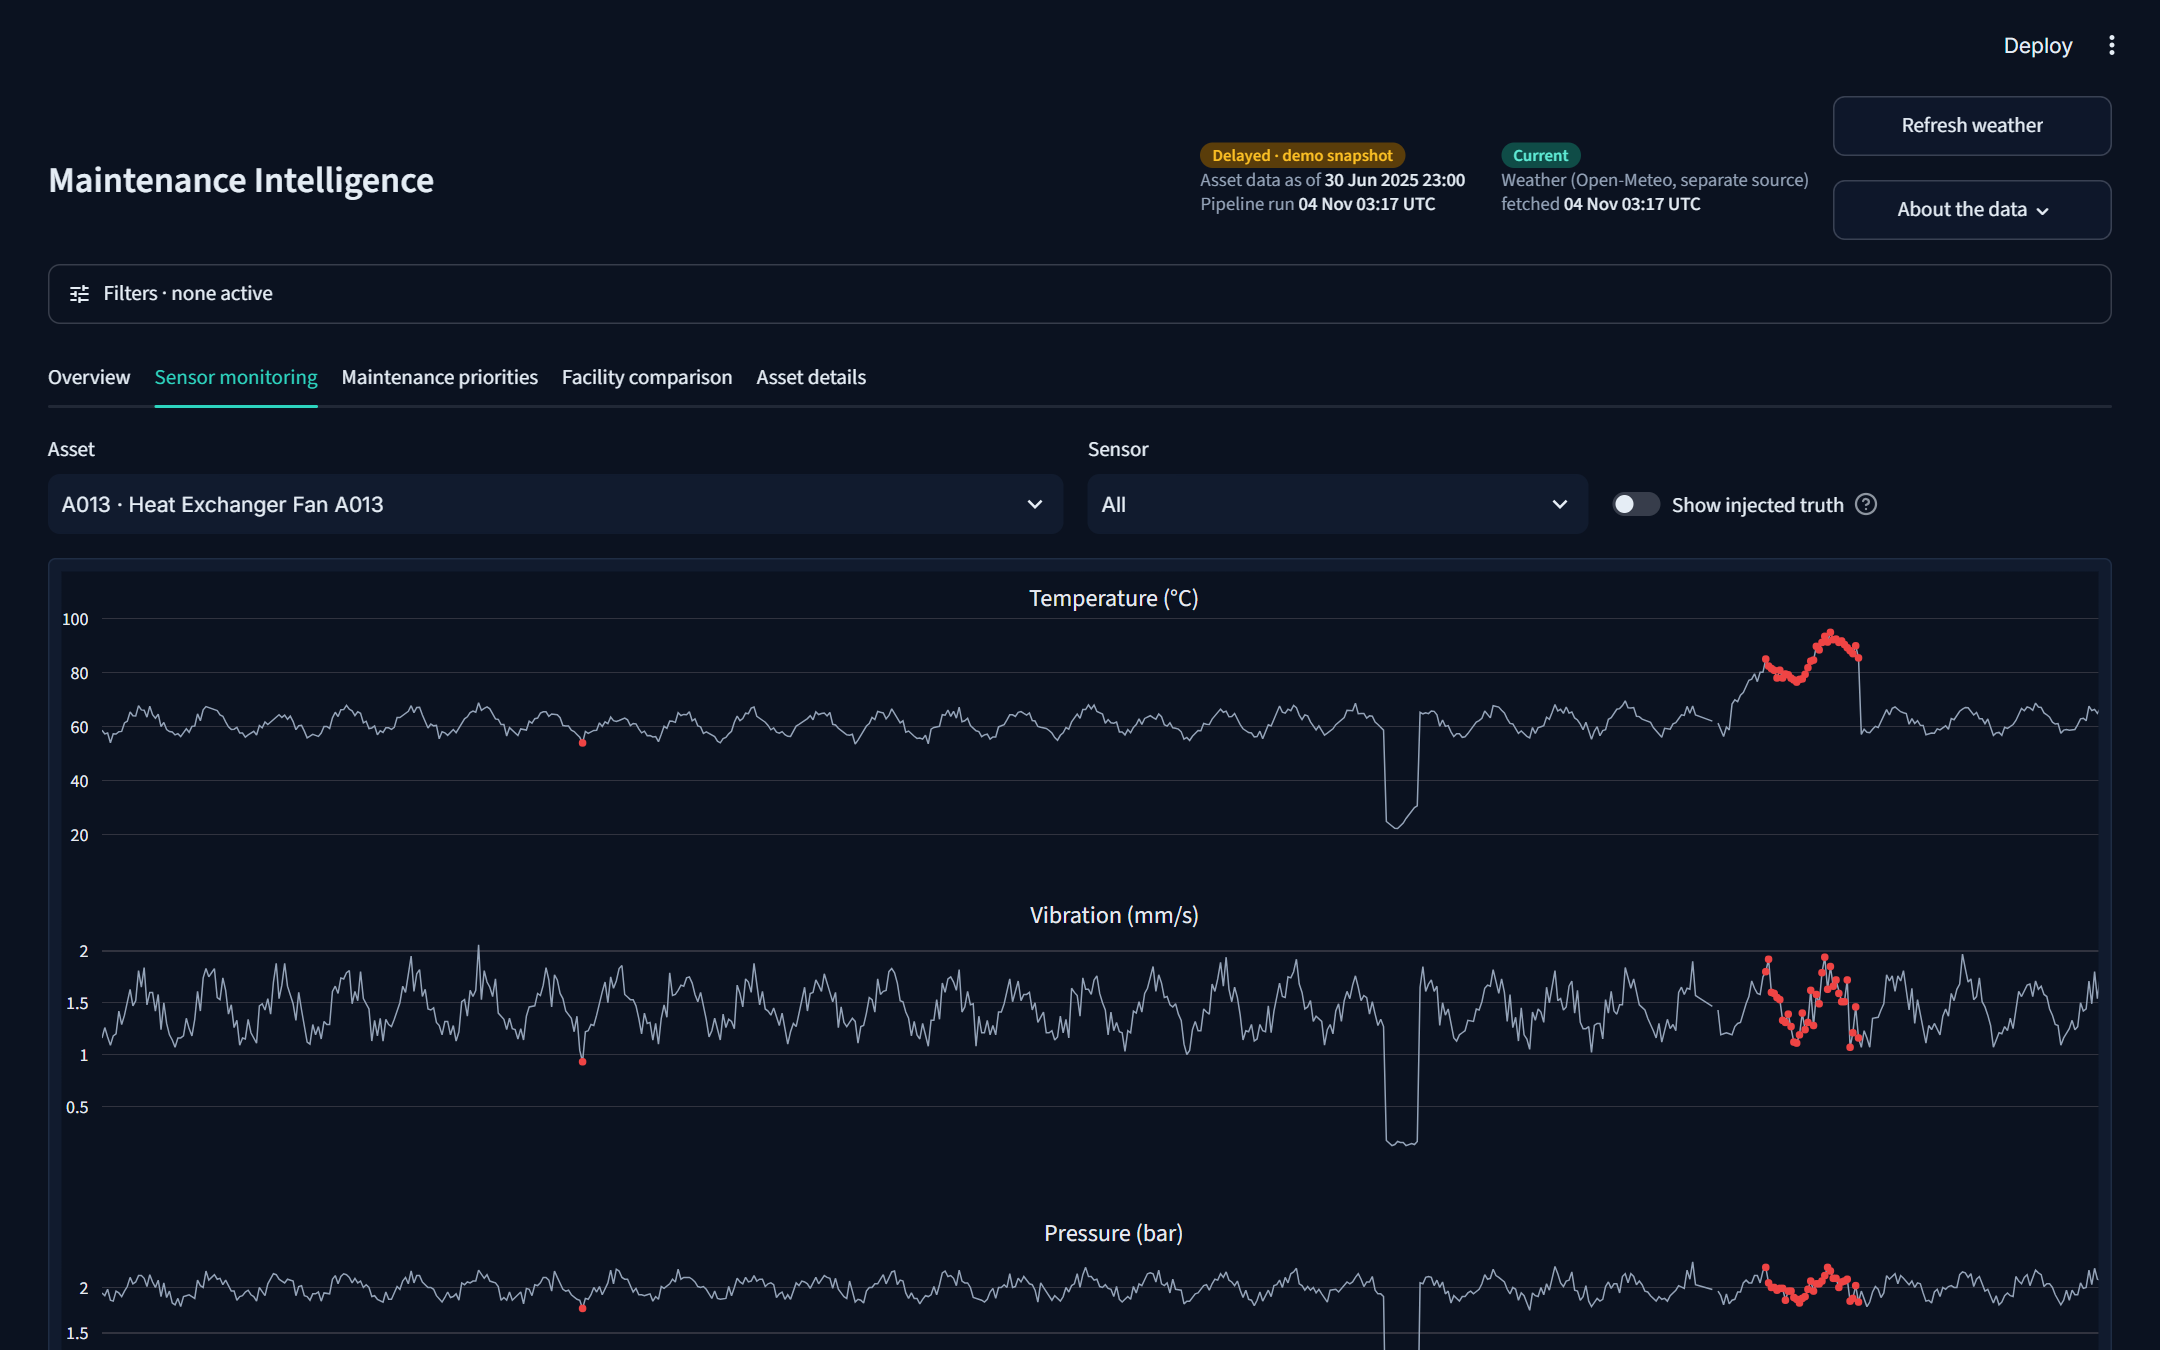
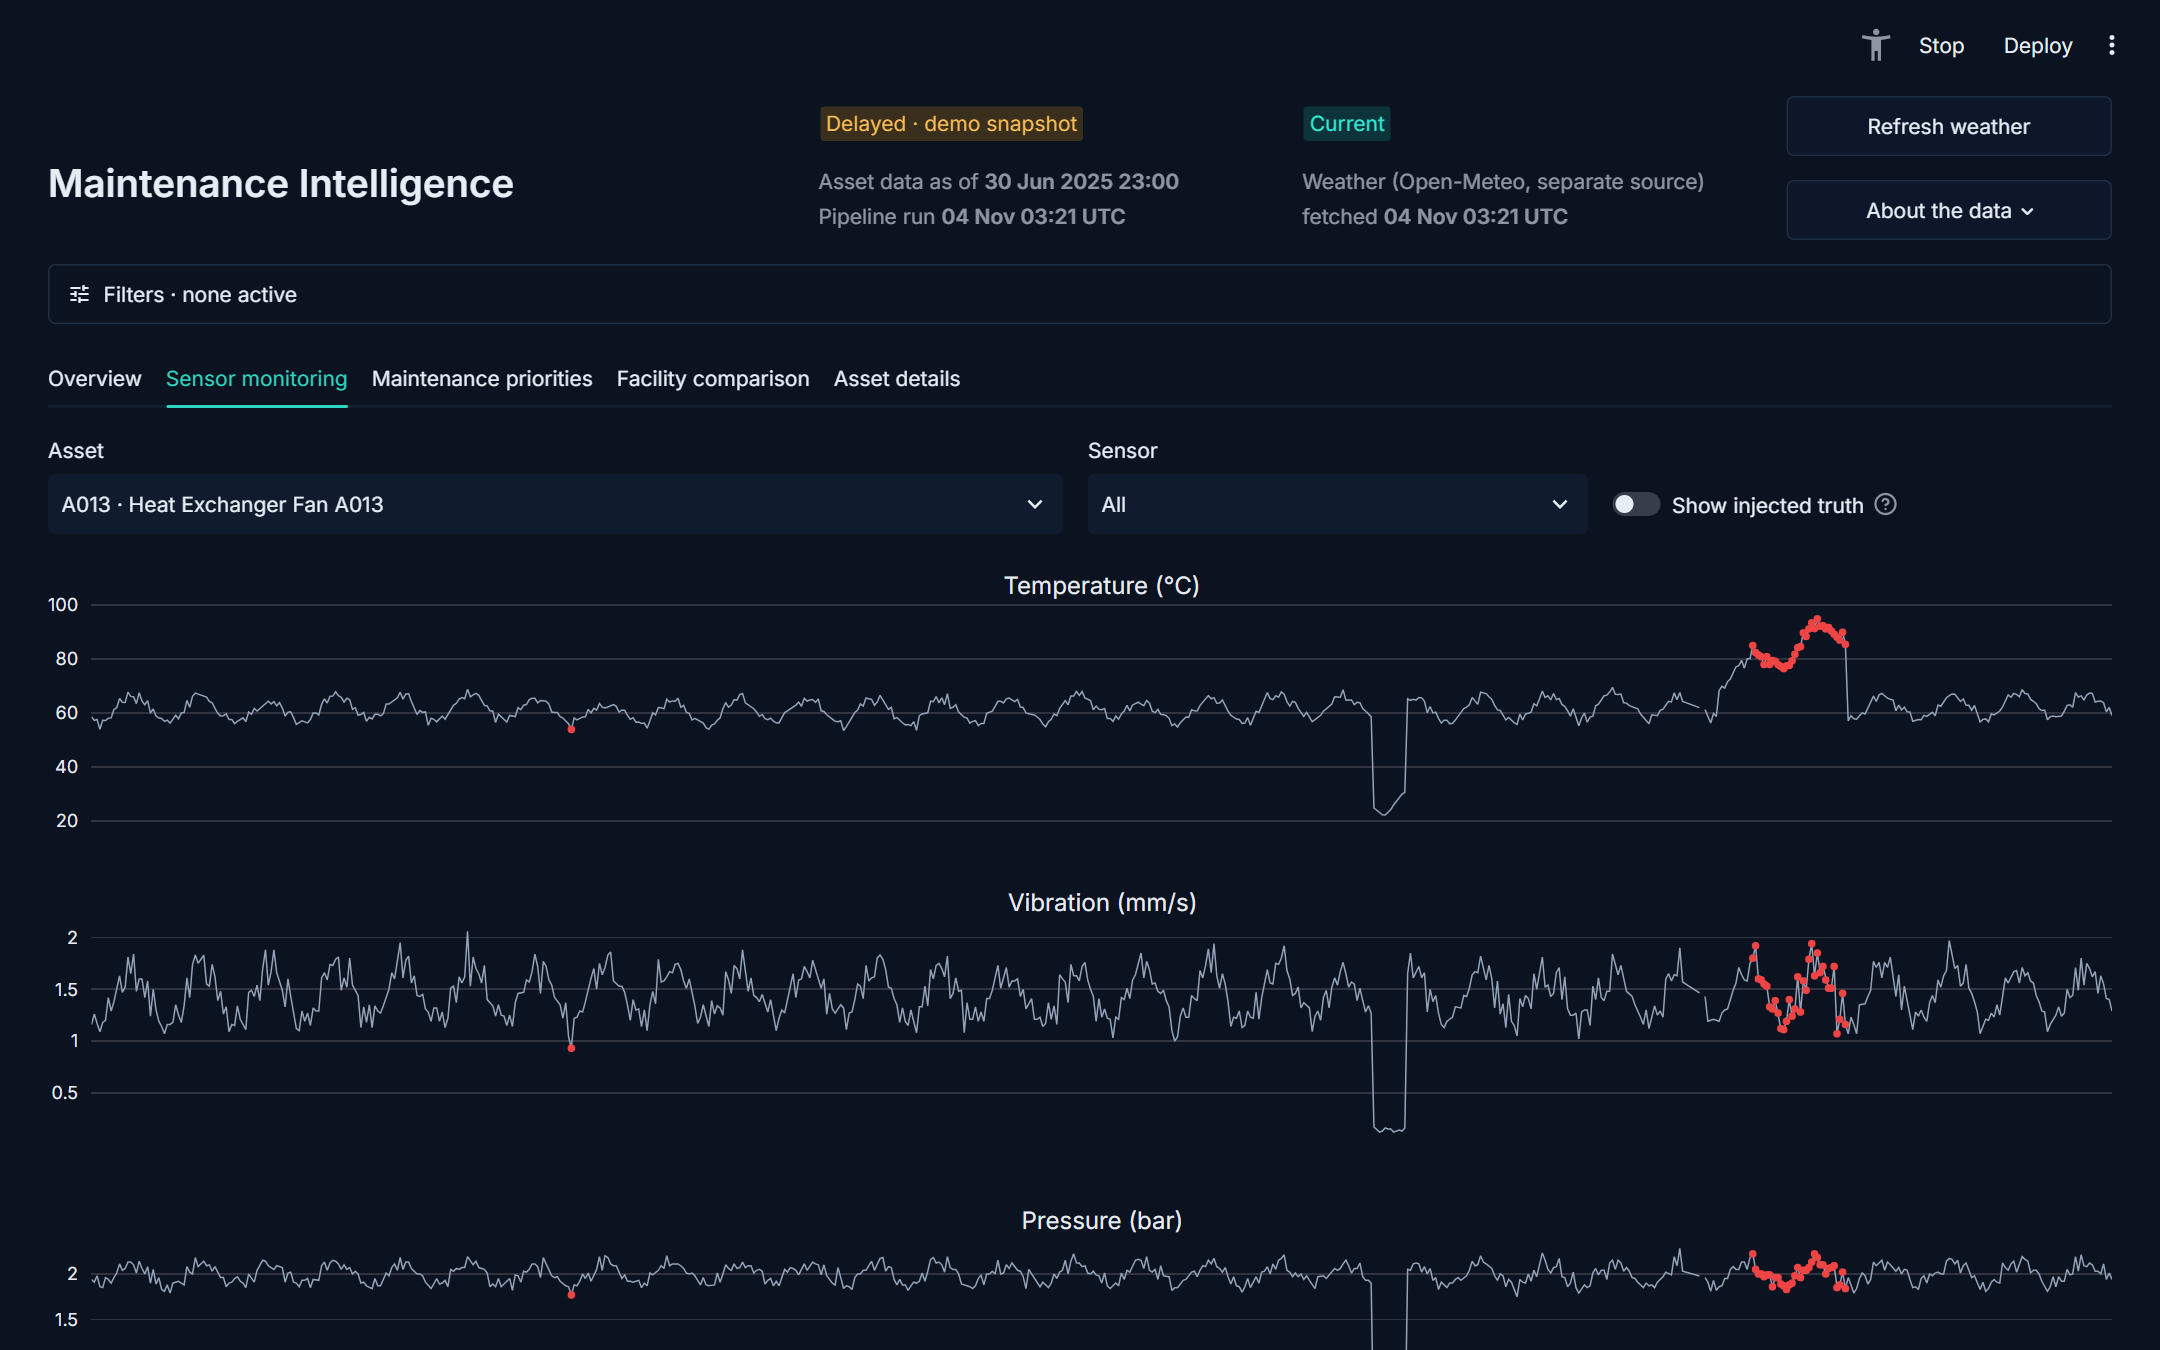
Move styling to theme config and native elements

diff --git a/app.py b/app.py
@@ -1,6 +1,4 @@
 """Maintenance Intelligence dashboard. Run: streamlit run app.py"""
-import itertools
-
 import pandas as pd
 import plotly.express as px
 import plotly.io as pio
@@ -11,29 +9,8 @@ from mi import pipeline as P
 from mi.data_gen import SENSORS
 from mi.weather import get_current
 
-_n = itertools.count()  # unique keys for styled card containers
 st.set_page_config("Maintenance Intelligence", ":material/monitoring:", layout="wide", initial_sidebar_state="collapsed")
-st.markdown("""<style>
-@import url('https://fonts.googleapis.com/css2?family=Inter:wght@400;500;600&display=swap');
-html, body, .stApp, button, input { font-family: 'Inter', sans-serif; }
-.block-container { padding: 3rem 2rem 2rem; max-width: 1600px; }
-h1 { font-size: 1.5rem !important; font-weight: 600 !important; padding: 0 !important; }
-h3 { font-size: 1rem !important; font-weight: 600 !important; padding: 0 0 .4rem !important; }
-[class*="st-key-card"] { background: #111b2e; border: 1px solid #1f2d44; border-radius: 5px; padding: .8rem 1rem; }
-[data-testid="stMetricLabel"] p { font-size: .75rem; color: #94a3b8; text-transform: uppercase; letter-spacing: .05em; }
-[data-testid="stMetricValue"] { font-variant-numeric: tabular-nums; font-weight: 600; font-size: 1.9rem; }
-[data-testid="stMetricValue"] > div { white-space: normal; overflow: visible; text-overflow: clip; line-height: 1.2; }
-button[data-baseweb="tab"][aria-selected="true"] { font-weight: 600; color: #2dd4bf; }
-[data-baseweb="tab-highlight"] { background: #2dd4bf; height: 2px; }
-[data-testid="stDataFrame"] { border: 1px solid #1f2d44; border-radius: 5px; overflow: hidden; }
-[data-testid="stPlotlyChart"] { background: #111b2e; border: 1px solid #1f2d44; border-radius: 5px; padding: .5rem; }
-[class*="st-key-card"] [data-testid="stPlotlyChart"] { background: transparent; border: 0; padding: 0; }
-.fresh { display: flex; gap: 1.5rem; justify-content: flex-end; font-size: .78rem; color: #94a3b8; line-height: 1.35; }
-.fresh b { color: #e5edf5; font-weight: 500; }
-.pill { white-space: nowrap; padding: 1px 8px; border-radius: 99px; font-size: .7rem; font-weight: 600; margin-right: .4rem; }
-.ok { background: #0f4c47; color: #5eead4; } .warn { background: #5a3d0a; color: #fbbf24; } .bad { background: #5a1414; color: #f87171; }
-@media (max-width: 640px) { .fresh { flex-direction: column; gap: .5rem; justify-content: flex-start; } .block-container { padding: 2.6rem 1rem 2rem; } }
-</style>""", unsafe_allow_html=True)
+st.markdown("<style>.block-container { padding: 3rem 2rem 2rem; max-width: 1600px; }</style>", unsafe_allow_html=True)  # no native setting for page padding
 pio.templates["mi"] = pio.templates["plotly_dark"]
 pio.templates["mi"].layout.update(paper_bgcolor="rgba(0,0,0,0)", plot_bgcolor="rgba(0,0,0,0)", font_family="Inter",
                                   margin=dict(l=10, r=30, t=40, b=10), title_font_size=14, hovermode="x unified")
@@ -117,17 +94,16 @@ def reset():
 # ---- Header: title left, data freshness right
 live_df, fetched = live(fac)
 now = pd.Timestamp.now("UTC")
-data_state = ("ok", "Current") if now - LAST.tz_localize("UTC") < pd.Timedelta(hours=2) else ("warn", "Delayed · demo snapshot")
-wx_state = ("ok", "Current") if not live_df.empty else ("bad", "Sync failed")
-h = st.columns([2.2, 3.2, 0.9], vertical_alignment="center")
+data_ok = now - LAST.tz_localize("UTC") < pd.Timedelta(hours=2)
+h = st.columns([2, 1.25, 1.25, 0.9], vertical_alignment="center")
 h[0].title("Maintenance Intelligence")
-h[1].markdown(
-    f"""<div class="fresh"><div><span class="pill {data_state[0]}">{data_state[1]}</span><br>Asset data as of <b>{LAST:%d %b %Y %H:%M}</b><br>
-    Pipeline run <b>{synced:%d %b %H:%M UTC}</b></div>
-    <div><span class="pill {wx_state[0]}">{wx_state[1]}</span><br>Weather (Open-Meteo, separate source)<br>
-    {'fetched <b>' + fetched.strftime('%d %b %H:%M UTC') + '</b>' if not live_df.empty else 'live feed unavailable'}</div></div>""",
-    unsafe_allow_html=True)
+with h[1]:
+    st.badge("Current" if data_ok else "Delayed · demo snapshot", color="green" if data_ok else "orange")
+    st.caption(f"Asset data as of **{LAST:%d %b %Y %H:%M}**  \nPipeline run **{synced:%d %b %H:%M UTC}**")
 with h[2]:
+    st.badge("Current" if not live_df.empty else "Sync failed", color="green" if not live_df.empty else "red")
+    st.caption("Weather (Open-Meteo, separate source)  \n" + (f"fetched **{fetched:%d %b %H:%M UTC}**" if not live_df.empty else "live feed unavailable"))
+with h[3]:
     if st.button("Refresh weather", width="stretch", help="Re-fetches live weather. Asset data is a fixed synthetic snapshot."):
         live.clear()
         st.rerun()
@@ -168,11 +144,11 @@ with tabs[0]:
             ("Critical assets", n_crit, f"{n_crit / len(T):.0%} of assets · risk > 40"),
             ("Average risk", f"{T.risk.mean():.1f}", "Scale 0-100 · as of risk date"),
             ("Model alerts", f"{n_alerts:,}", f"Alert-hours, last {period} days")]):
-        with col.container(border=True, key=f"card_{lbl[:5]}"):
+        with col.container(border=True):
             st.metric(lbl, val)
             st.caption(sub)
 
-    with st.container(border=True, key="card_prio"):
+    with st.container(border=True):
         st.subheader("Maintenance priorities")
         top = T.head(10).reset_index(drop=True)
         ss["prio_ids"] = list(top.asset_id)
@@ -184,7 +160,7 @@ with tabs[0]:
         st.caption("Ranked by risk score. Select a row to open that asset in Asset details.")
 
     c1, c2, c3 = st.columns([1.3, 1, 1.1])
-    with c1.container(border=True, key="card_map"):
+    with c1.container(border=True):
         st.subheader("Facility risk map")
         g = T.groupby(["facility", "facility_id"]).agg(avg_risk=("risk", "mean"), critical=("level", lambda x: (x == "High").sum()),
                                                         assets=("asset_id", "count")).reset_index().merge(fac, on="facility_id")
@@ -197,19 +173,19 @@ with tabs[0]:
                                        size_max=26, map_style="carto-darkmatter",
                                        labels={"avg_risk": "Avg risk", "critical": "Critical assets", "assets": "Assets", "now": "Weather now"})
                         .update_layout(height=H, margin=dict(l=0, r=0, t=0, b=0)), width="stretch")
-    with c2.container(border=True, key="card_fac"):
+    with c2.container(border=True):
         st.subheader("Average risk by facility")
         show(px.bar(g.sort_values("avg_risk"), x="avg_risk", y=g.sort_values("avg_risk").facility.str.split().str[0], orientation="h", text_auto=".1f", color="avg_risk",
                                color_continuous_scale=SCALE, range_color=(15, 45), labels={"avg_risk": "Average risk", "facility": ""})
                         .update_layout(height=H, coloraxis_showscale=False, yaxis_title=None, margin=dict(l=0, r=10, t=0, b=0)), width="stretch")
-    with c3.container(border=True, key="card_type"):
+    with c3.container(border=True):
         st.subheader("Risk by facility × asset type")
         hm = T.pivot_table(index="facility", columns="asset_type", values="risk", aggfunc="mean").round(0).rename(index=lambda s: s.split()[0], columns=lambda s: s.split()[-1])
         show(px.imshow(hm, text_auto=".0f", color_continuous_scale=SCALE, zmin=15, zmax=45, aspect="auto",
                                   labels={"color": "Avg risk", "x": "", "y": ""})
                         .update_xaxes(side="top").update_layout(height=H, coloraxis_showscale=False, margin=dict(l=0, r=0, t=0, b=0)), width="stretch")
 
-    with st.container(border=True, key="card_live"):
+    with st.container(border=True):
         st.subheader("Live conditions at facilities")
         if live_df.empty:
             st.info("Live weather feed unavailable right now. Historical/synthetic weather is still used by the model.")
@@ -268,7 +244,7 @@ with tabs[3]:
 with tabs[4]:
     a = st.selectbox("Asset", T.asset_id, format_func=lambda x: f"{x} · {T.set_index('asset_id').asset_name[x]}", key="d")
     row = T.set_index("asset_id").loc[a]
-    with st.container(border=True, key=f"card_{next(_n)}"):
+    with st.container(border=True):
         c = st.columns([1, 2.4, 1, 1])
         c[0].metric("Risk score", f"{row.risk:.1f}")
         c[0].markdown(TAG[row.level])

diff --git a/README.md b/README.md
@@ -27,7 +27,7 @@ Both versions are Streamlit apps on the same analysis (`mi/`), so the risk score
 | Maintenance Priorities tab | Large bar chart repeating the table beneath it | The table only, sized to the number of assets shown | The chart showed the same data twice. |
 | Sensor charts | Raw field names (`temperature_c`), default colours, injected-fault overlay always on | Names with units (Temperature (°C)), shared hover, light grid, fault overlay off by default | Operational view first; the evaluation overlay is opt-in. |
 | Asset details | Purple chart, large blue banner, and a "now" value that seemed to contradict the 7-day peak | Chart centred on zero with ±3σ limits, red only outside them; findings labelled "7 days to <date>" and the chart labelled "right now" | The two numbers measure different things and now say so. |
-| Styling | 10 px rounded boxes | 5 px corners and fewer nested borders | Less of the generic dashboard look. |
+| Styling | Roughly 30 lines of injected CSS for cards, fonts, badges and tabs | Theme in .streamlit/config.toml (colours, Inter font, radius, borders, severity palette) and native badges and bordered containers; one line of CSS left for page padding | Survives Streamlit upgrades and is easier to maintain. |
 | Severity colour | Teal progress bar even for Critical assets; severity word uncoloured | Severity cells tinted red/amber, with the word kept; charts use the same three fixed bands instead of a blended gradient | Colour now means the same everywhere and is never the only cue. |
 | Facility Comparison | Raw field names, a red/cream scale, slanted labels | Readable labels, horizontal bars, shared severity colours, formatted table | Consistent with the rest of the app. |
 | Navigation | Select a row, then find and open the Asset Details tab yourself | Selecting a row opens that asset in Asset details; the active tab is saved in the URL so a link or reload keeps your place | Fewer steps, and views can be shared. |
